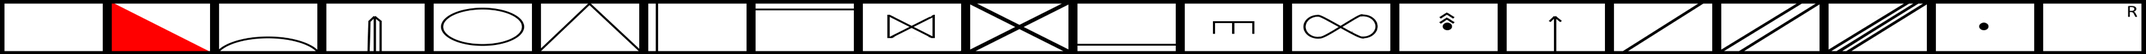
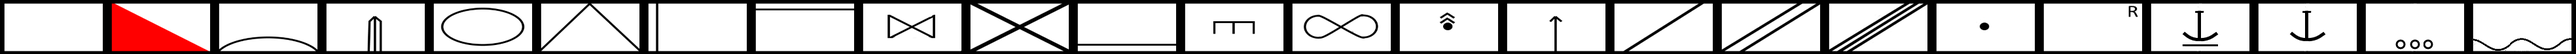
daily

Changed region(s): [[0.0311, 0.0476, 1.0, 0.9524]]

diff --git a/js/Display.js b/js/Display.js
@@ -597,7 +597,39 @@ function displayCard(card, type, pos){
     if (card.Unit.sUnitData.charAt(14) == '3') { innerString += " <img class='unit img-responsive' style='position: absolute; top: 0; left: 0;' id='rec3' >";}
     if (card.Unit.sUnitData.charAt(15) == '1') { innerString += " <img class='unit img-responsive' style='position: absolute; top: 0; left: 0;' id='tube' >";}
     if (card.Unit.sUnitData.charAt(16) == '1') { innerString += " <img class='unit img-responsive' style='position: absolute; top: 0; left: 0;' id='rad' >";}
-        if (isUnavailable == true)                 { innerString += " <img class='unit img-responsive' style='position: absolute; top: 0; left: 0;' id='error' >"; }
+    if (card.Unit.sUnitData.charAt(26) == '1') { innerString += " <img class='unit img-responsive' style='position: absolute; top: 0; left: 0;' id='amph' >";}
+    if (card.Unit.sUnitData.charAt(28) == '1') { innerString += " <img class='unit img-responsive' style='position: absolute; top: 0; left: 0;' id='nav1' >";}
+    if (card.Unit.sUnitData.charAt(28) == '2') { innerString += " <img class='unit img-responsive' style='position: absolute; top: 0; left: 0;' id='nav2' >";}
+    if (card.Unit.sUnitData.charAt(28) == '3') { innerString += " <img class='unit img-responsive' style='position: absolute; top: 0; left: 0;' id='nav2' >";}
+    if (isUnavailable == true)                 { innerString += " <img class='unit img-responsive' style='position: absolute; top: 0; left: 0;' id='error' >"; }
+
+    if(card.Transport != 0){
+
+          if (card.Transport.sUnitData.charAt(0)  == '1') { innerString += " <img class='unit img-responsive' style='position: absolute; top: 0; left: 0;' id='antiair' >";}
+          if (card.Transport.sUnitData.charAt(1)  == '1') { innerString += " <img class='unit img-responsive' style='position: absolute; top: 0; left: 0;' id='AAM' >";}
+          if (card.Transport.sUnitData.charAt(2)  == '1') { innerString += " <img class='unit img-responsive' style='position: absolute; top: 0; left: 0;' id='armour' >";}
+          if (card.Transport.sUnitData.charAt(3)  == '1') { innerString += " <img class='unit img-responsive' style='position: absolute; top: 0; left: 0;' id='atgm' >";}
+          if (card.Transport.sUnitData.charAt(4)  == '1') { innerString += " <img class='unit img-responsive' style='position: absolute; top: 0; left: 0;' id='carrier' >";}
+          if (card.Transport.sUnitData.charAt(5)  == '1') { innerString += " <img class='unit img-responsive' style='position: absolute; top: 0; left: 0;' id='CMD'  >";}
+          if (card.Transport.sUnitData.charAt(6)  == '1') { innerString += " <img class='unit img-responsive' style='position: absolute; top: 0; left: 0;' id='helo' >";}
+          if (card.Transport.sUnitData.charAt(7)  == '1') { innerString += " <img class='unit img-responsive' style='position: absolute; top: 0; left: 0;' id='inf' >";}
+          if (card.Transport.sUnitData.charAt(8)  == '1') { innerString += " <img class='unit img-responsive' style='position: absolute; top: 0; left: 0;' id='log' >";}
+          if (card.Transport.sUnitData.charAt(9)  == '1') { innerString += " <img class='unit img-responsive' style='position: absolute; top: 0; left: 0;' id='eng' >";}
+          if (card.Transport.sUnitData.charAt(10) == '1') { innerString += " <img class='unit img-responsive' style='position: absolute; top: 0; left: 0;' id='plane' >";}
+          if (card.Transport.sUnitData.charAt(11) == '1') { innerString += " <img class='unit img-responsive' style='position: absolute; top: 0; left: 0;' id='rad' >";}
+          if (card.Transport.sUnitData.charAt(12) == '1') { innerString += " <img class='unit img-responsive' style='position: absolute; top: 0; left: 0;' id='rocket' >";}
+          if (card.Transport.sUnitData.charAt(13) == '1') { innerString += " <img class='unit img-responsive' style='position: absolute; top: 0; left: 0;' id='mtr' >";}
+          if (card.Transport.sUnitData.charAt(14) == '1') { innerString += " <img class='unit img-responsive' style='position: absolute; top: 0; left: 0;' id='rec' >";}
+          if (card.Transport.sUnitData.charAt(14) == '2') { innerString += " <img class='unit img-responsive' style='position: absolute; top: 0; left: 0;' id='rec2' >";}
+          if (card.Transport.sUnitData.charAt(14) == '3') { innerString += " <img class='unit img-responsive' style='position: absolute; top: 0; left: 0;' id='rec3' >";}
+          if (card.Transport.sUnitData.charAt(15) == '1') { innerString += " <img class='unit img-responsive' style='position: absolute; top: 0; left: 0;' id='tube' >";}
+          if (card.Transport.sUnitData.charAt(16) == '1') { innerString += " <img class='unit img-responsive' style='position: absolute; top: 0; left: 0;' id='rad' >";}
+          if (card.Transport.sUnitData.charAt(26) == '1') { innerString += " <img class='unit img-responsive' style='position: absolute; top: 0; left: 0;' id='amph' >";}
+          if (card.Transport.sUnitData.charAt(28) == '1') { innerString += " <img class='unit img-responsive' style='position: absolute; top: 0; left: 0;' id='nav1' >";}
+          if (card.Transport.sUnitData.charAt(28) == '2') { innerString += " <img class='unit img-responsive' style='position: absolute; top: 0; left: 0;' id='nav2' >";}
+          if (card.Transport.sUnitData.charAt(28) == '3') { innerString += " <img class='unit img-responsive' style='position: absolute; top: 0; left: 0;' id='nav2' >";}
+          if (isUnavailable == true)                 { innerString += " <img class='unit img-responsive' style='position: absolute; top: 0; left: 0;' id='error' >"; }
+    }
     innerString += ' <h5 style="position: absolute; bottom: 0; right: 0; color:#ff0; font-weight:900;">' + card.iCost + '</h5>';
     var temp = Math.round(((100 + Deck.availQ) * card.iaAvailability[card.iVet0])/100);
     innerString += ' <h5 style="position: absolute; bottom: 0; left: 35%; color:#fff; font-weight:900;">' + temp + '</h5>';

diff --git a/js/Database.js b/js/Database.js
@@ -94,7 +94,7 @@ function initMainDB()
 function Create()
 {
     // ID, DATA, AVAIL, SPEC, YEAR, COST,, CARDS PROTO, NATION, NAME
-    //data: AA, AA missile, armor, atgm, transport, CMD, helo, inf, logi, NPLM, plane, SEAD, MLRS, MTR, recon, tube, radar, amphib, naval, ship
+    //data: AA, AA missile, armor, atgm, transport, CMD, helo, inf, logi, NPLM, plane, SEAD, MLRS, MTR, recon, tube, radar, amphib, naval, ship, moto
     CardsDB[   0][0] = new Datacard(   0, "00000000000000000000000000000", [ 0,  0,  0,  0,  0], "1111111",    0,   0, 0, 0, "", "");
     CardsDB[   1][0] = new Datacard(   1, "00000101000000000100000000000", [ 0,  3,  0,  0,  0], "1110110", 1975, 100, 1, 0, "FRA", "⍟ Groupe de CMDT");
     CardsDB[   2][0] = new Datacard(   2, "00000001000000000010000000000", [ 0, 20, 16,  0,  0], "1011110", 1975,  10, 3, 0, "CAN", "Can. Rifles");
@@ -1566,7 +1566,7 @@ function Create()
     CardsDB[ 443][1] = new Datacard( 443, "00000000000000000000000000000", [ 0,  0,  0,  0,  0], "0000000",    0,   0, 0, 0, "", "");
     CardsDB[ 444][1] = new Datacard( 444, "00010000000000000000000001001", [ 8,  7,  6,  5,  4], "1111111", 1960,  40, 2, 0, "RED", "Komar");
     CardsDB[ 445][1] = new Datacard( 445, "00000000100000000000000001001", [ 0,  3,  0,  0,  0], "1111111", 1970, 120, 2, 0, "RED", "Muna");
-    CardsDB[ 446][1] = new Datacard( 446, "10010010000000001000000001003", [ 3,  0,  2,  0,  1], "1111111", 1972, 120, 2, 0, "RED", "⍟ Naijn");
+    CardsDB[ 446][1] = new Datacard( 446, "10010100000000001000000001003", [ 3,  0,  2,  0,  1], "1111111", 1972, 120, 2, 0, "RED", "⍟ Najin");
     CardsDB[ 447][1] = new Datacard( 447, "11010000000000001000000001002", [ 5,  0,  4,  0,  3], "1111111", 1979, 120, 2, 0, "RED", "Nanushka-III");
     CardsDB[ 448][1] = new Datacard( 448, "00010000000000000000000001002", [ 5,  0,  4,  0,  3], "1111111", 1971,  60, 2, 0, "RED", "Moskit");
     CardsDB[ 449][1] = new Datacard( 449, "00000000000010000000000001001", [ 3,  0,  2,  0,  1], "1111111", 1976,  80, 2, 0, "RED", "CHONG-JU");

diff --git a/js/Main.js b/js/Main.js
@@ -403,6 +403,10 @@ function ShowCard(Card)
     if (Card.Unit.sUnitData.charAt(14) == '3') { ShowData(type, "rec3"); }
     if (Card.Unit.sUnitData.charAt(15) == '1') { ShowData(type, "tube"); }
     if (Card.Unit.sUnitData.charAt(16) == '1') { ShowData(type, "rad"); }
+    if (Card.Unit.sUnitData.charAt(26) == '1') { ShowData(type, "amph"); }
+    if (Card.Unit.sUnitData.charAt(28) == '1') { ShowData(type, "nav1"); }
+    if (Card.Unit.sUnitData.charAt(28) == '2') { ShowData(type, "nav2"); }
+    if (Card.Unit.sUnitData.charAt(28) == '3') { ShowData(type, "nav2"); }
 
     iData = document.createElement("img");
     iData.src = "picsb/" + Deck.iSide + Card.Unit.iUnitID + ".png";

diff --git a/index.html b/index.html
@@ -130,6 +130,10 @@
       #rec3{   background-position: -1700px 0;      }
       #tube{   background-position: -1800px 0;      }
       #rad{    background-position: -1900px 0;      }
+      #nav2{    background-position: -2000px 0;      }
+      #nav1{    background-position: -2100px 0;      }
+      #moto{    background-position: -2200px 0;      }
+      #amph{    background-position: -2300px 0;      }
   </style>
   <link REL="SHORTCUT ICON" HREF="favicon.ico">
 </head>
